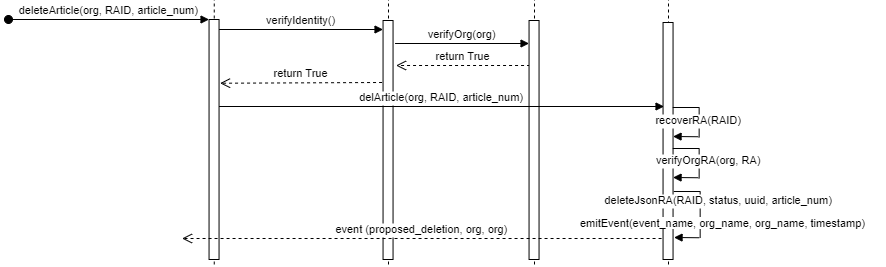
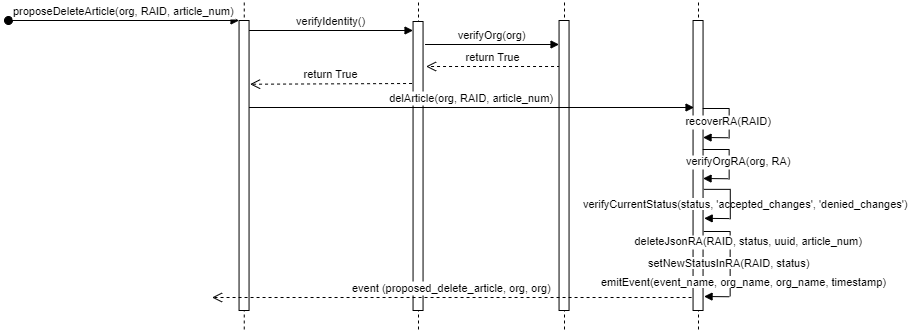
10.08.22

Changed region(s): [[0.0, 0.0, 1.0, 0.9888]]

diff --git a/chaincode/documentation/README.md b/chaincode/documentation/README.md
@@ -113,6 +113,18 @@
 <img src="https://github.com/sfl0r3nz05/NLP-DLT/blob/main/chaincode/documentation/images/denyUpdateArticle1.png">       
 <img src="https://github.com/sfl0r3nz05/NLP-DLT/blob/main/chaincode/documentation/images/denyUpdateArticle2.png">
 
+### Article Deletion
+|Method                    | Event                  | State                        |
+|:------------------------:|:----------------------:|:----------------------------:|
+|proposeDeleteArticle      |proposed_delete_article |proposed_changes              |
+- The drafting of the Roaming Agreement involves the deletion of the articles. 
+- Identity is verified.
+- The inputs are `json org`, `RAID` and `article_num`.
+- One of the two previous states: `accepted_changes` and `denied_changes` must be enabled.
+- An event is emitted to set the state `proposed_delete_article`.
+<img src="https://github.com/sfl0r3nz05/NLP-DLT/blob/sentencelvl/chaincode/documentation/images/deleteArticle1.png">       
+<img src="https://github.com/sfl0r3nz05/NLP-DLT/blob/sentencelvl/chaincode/documentation/images/deleteArticle2.png">
+
 ### State-to-state-transition
 - Actions implies change of state. 
 - The chaincode validates the changes of states.
